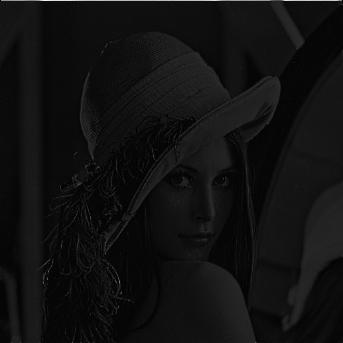
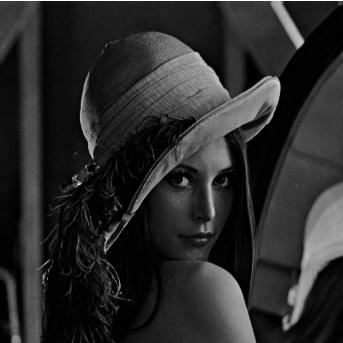
minor changes to methods

diff --git a/ProcessImage.java b/ProcessImage.java
@@ -37,11 +37,11 @@ public class ProcessImage {
         }
 
         SmoothingFilter imageToSmooth = new SmoothingFilter(imagePixelValues, imageWidth, imageHeight, maskSize);
-        MedianFilter imageToMedianed = new MedianFilter(imagePixelValues, imageWidth, imageHeight, maskSize);
+        MedianFilter imageToApplyMedianFilter = new MedianFilter(imagePixelValues, imageWidth, imageHeight, maskSize);
         HistEqualization imageToEqualize = new HistEqualization(imagePixelValues, imageWidth, imageHeight, maskSize);
-        Laplacian imageLaplacian = new Laplacian(imagePixelValues, imageWidth, imageHeight, maskSize);
-        HighboostFilter imageHighboost = new HighboostFilter(imagePixelValues, imageWidth, imageHeight, maskSize);
-        RemoveBitplanes imageBitPlane = new RemoveBitplanes(imagePixelValues, imageWidth, imageHeight, maskSize);
+        Laplacian imageToApplyLaplacian = new Laplacian(imagePixelValues, imageWidth, imageHeight, maskSize);
+        HighboostFilter imageToHighboost = new HighboostFilter(imagePixelValues, imageWidth, imageHeight, maskSize);
+        RemoveBitplanes imageToRemoveBitPlaneFrom = new RemoveBitplanes(imagePixelValues, imageWidth, imageHeight, maskSize);
 
 
         // imageToSmooth.applyBoxFilter(imagePixelValues);
@@ -62,9 +62,15 @@ public class ProcessImage {
         // imageBitPlane.removeBitplanes();
         
 
-        ScaleProcessedImage scaledImage = new ScaleProcessedImage(imagePixelValues, imageWidth, imageHeight, imageHighboost.applyHighboostFilter());
+// ScaleProcessedImage scaledImage = new ScaleProcessedImage(imagePixelValues, imageWidth, imageHeight, imageToEqualize.localEqualization());
+//         ScaleProcessedImage scaledImage = new ScaleProcessedImage(imagePixelValues, imageWidth, imageHeight, imageToApplyLaplacian.applyLaplacian());
+// ScaleProcessedImage scaledImage = new ScaleProcessedImage(imagePixelValues, imageWidth, imageHeight, imageToSmooth.applyBoxFilter());
+//         ScaleProcessedImage scaledImage = new ScaleProcessedImage(imagePixelValues, imageWidth, imageHeight, imageToApplyMedianFilter.applyMedianFilter());
+// ScaleProcessedImage scaledImage = new ScaleProcessedImage(imagePixelValues, imageWidth, imageHeight, imageToHighboost.applyHighboostFilter());
+        ScaleProcessedImage scaledImage = new ScaleProcessedImage(imagePixelValues, imageWidth, imageHeight, imageToRemoveBitPlaneFrom.removeBitplanes());
+
         scaledImage.outputImageFile();
-        
+
 
 
     }

diff --git a/ScaleProcessedImage.java b/ScaleProcessedImage.java
@@ -54,7 +54,7 @@ public class ScaleProcessedImage {
 
         for (int y=0; y<imageHeight; y++) {
             for (int x=0; x<imageWidth; x++) {
-                scaledValues[y][x] = (processedImagePixelValues[y][x] - oldMin) / ((oldMax - oldMin) / 255);
+                scaledValues[y][x] = (int)(((double)(processedImagePixelValues[y][x] - oldMin) / ((double)(oldMax - oldMin) / 255.0)));
             }
         }
         return scaledValues;

diff --git a/HistEqualization.java b/HistEqualization.java
@@ -41,10 +41,7 @@ public class HistEqualization {
                     equalizedArray[y][x] = equalizedHistogram[grayscaleVal];
                 }
             }
-        for (int i=200; i<220; i++) {
-            System.out.print(equalizedHistogram[i] + " ");
-        }        
-
+            
         return equalizedArray;
     }
 
